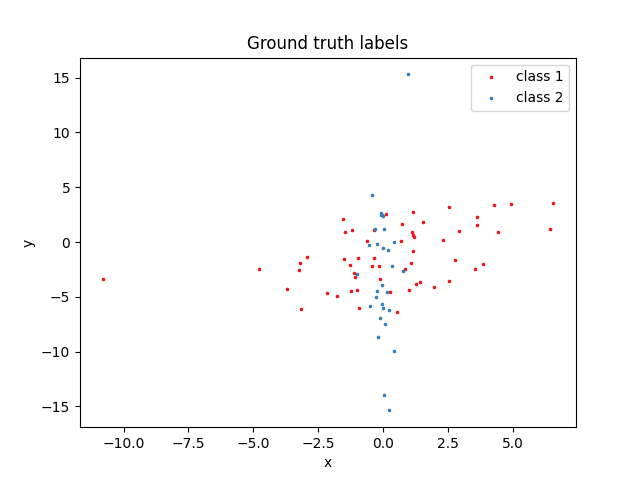
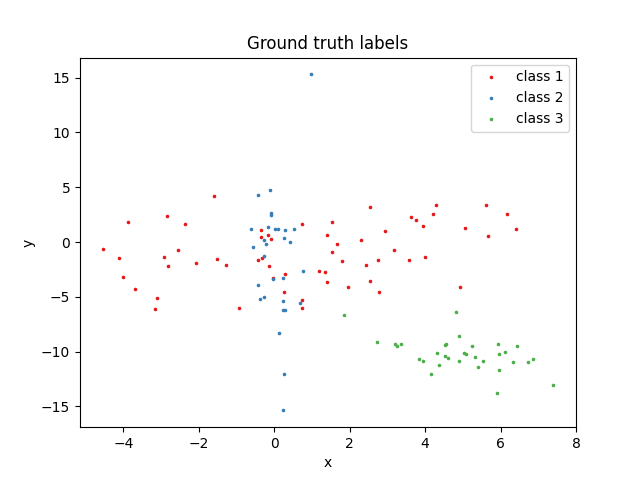
Made multiclass classsification for big hw

diff --git a/ML/bighw2/task_02.py b/ML/bighw2/task_02.py
@@ -162,13 +162,17 @@ if __name__ == "__main__":
 
     means1, covs1 = [0, -4], [[0.1, 0.0], [0.0, 25]]
     x1, y1 = np.random.multivariate_normal(means1, covs1, 100).T
+    
+    means2, covs2 = [5, -10], [[2, -1], [-1, 2]]
+    x2, y2 = np.random.multivariate_normal(means2, covs2, 120).T
 
     # Convert data to the appropriate format
     data0, labels0 = np.vstack([x0, y0]).T, np.zeros(len(x0))
     data1, labels1 = np.vstack([x1, y1]).T, np.ones(len(x1))
+    data2, labels2 = np.vstack([x2, y2]).T, 2*np.ones(len(x2))
 
-    data = np.vstack([data0, data1])
-    labels = np.hstack([labels0, labels1])
+    data = np.vstack([data0, data1, data2])
+    labels = np.hstack([labels0, labels1, labels2])
     total_size = data.shape[0]
     print("Dataset shape:", data.shape, labels.shape)
 
@@ -211,8 +215,8 @@ if __name__ == "__main__":
 
         # Check classifier performance
         assert (
-            accuracy_score(y_test, y_pred) > 190.0 / 290
-        ), f"This classifier is worse than a constant C={190.0 / 290}."
+            accuracy_score(y_test, y_pred) > 190.0 / 290.0
+        ), f"This classifier is worse than a constant C={190.0 / 290.0}."
 
         # Calculate additional metric and compare with library version
         print(f"Additional metric: {f1_macro:.4f} [custom]")
